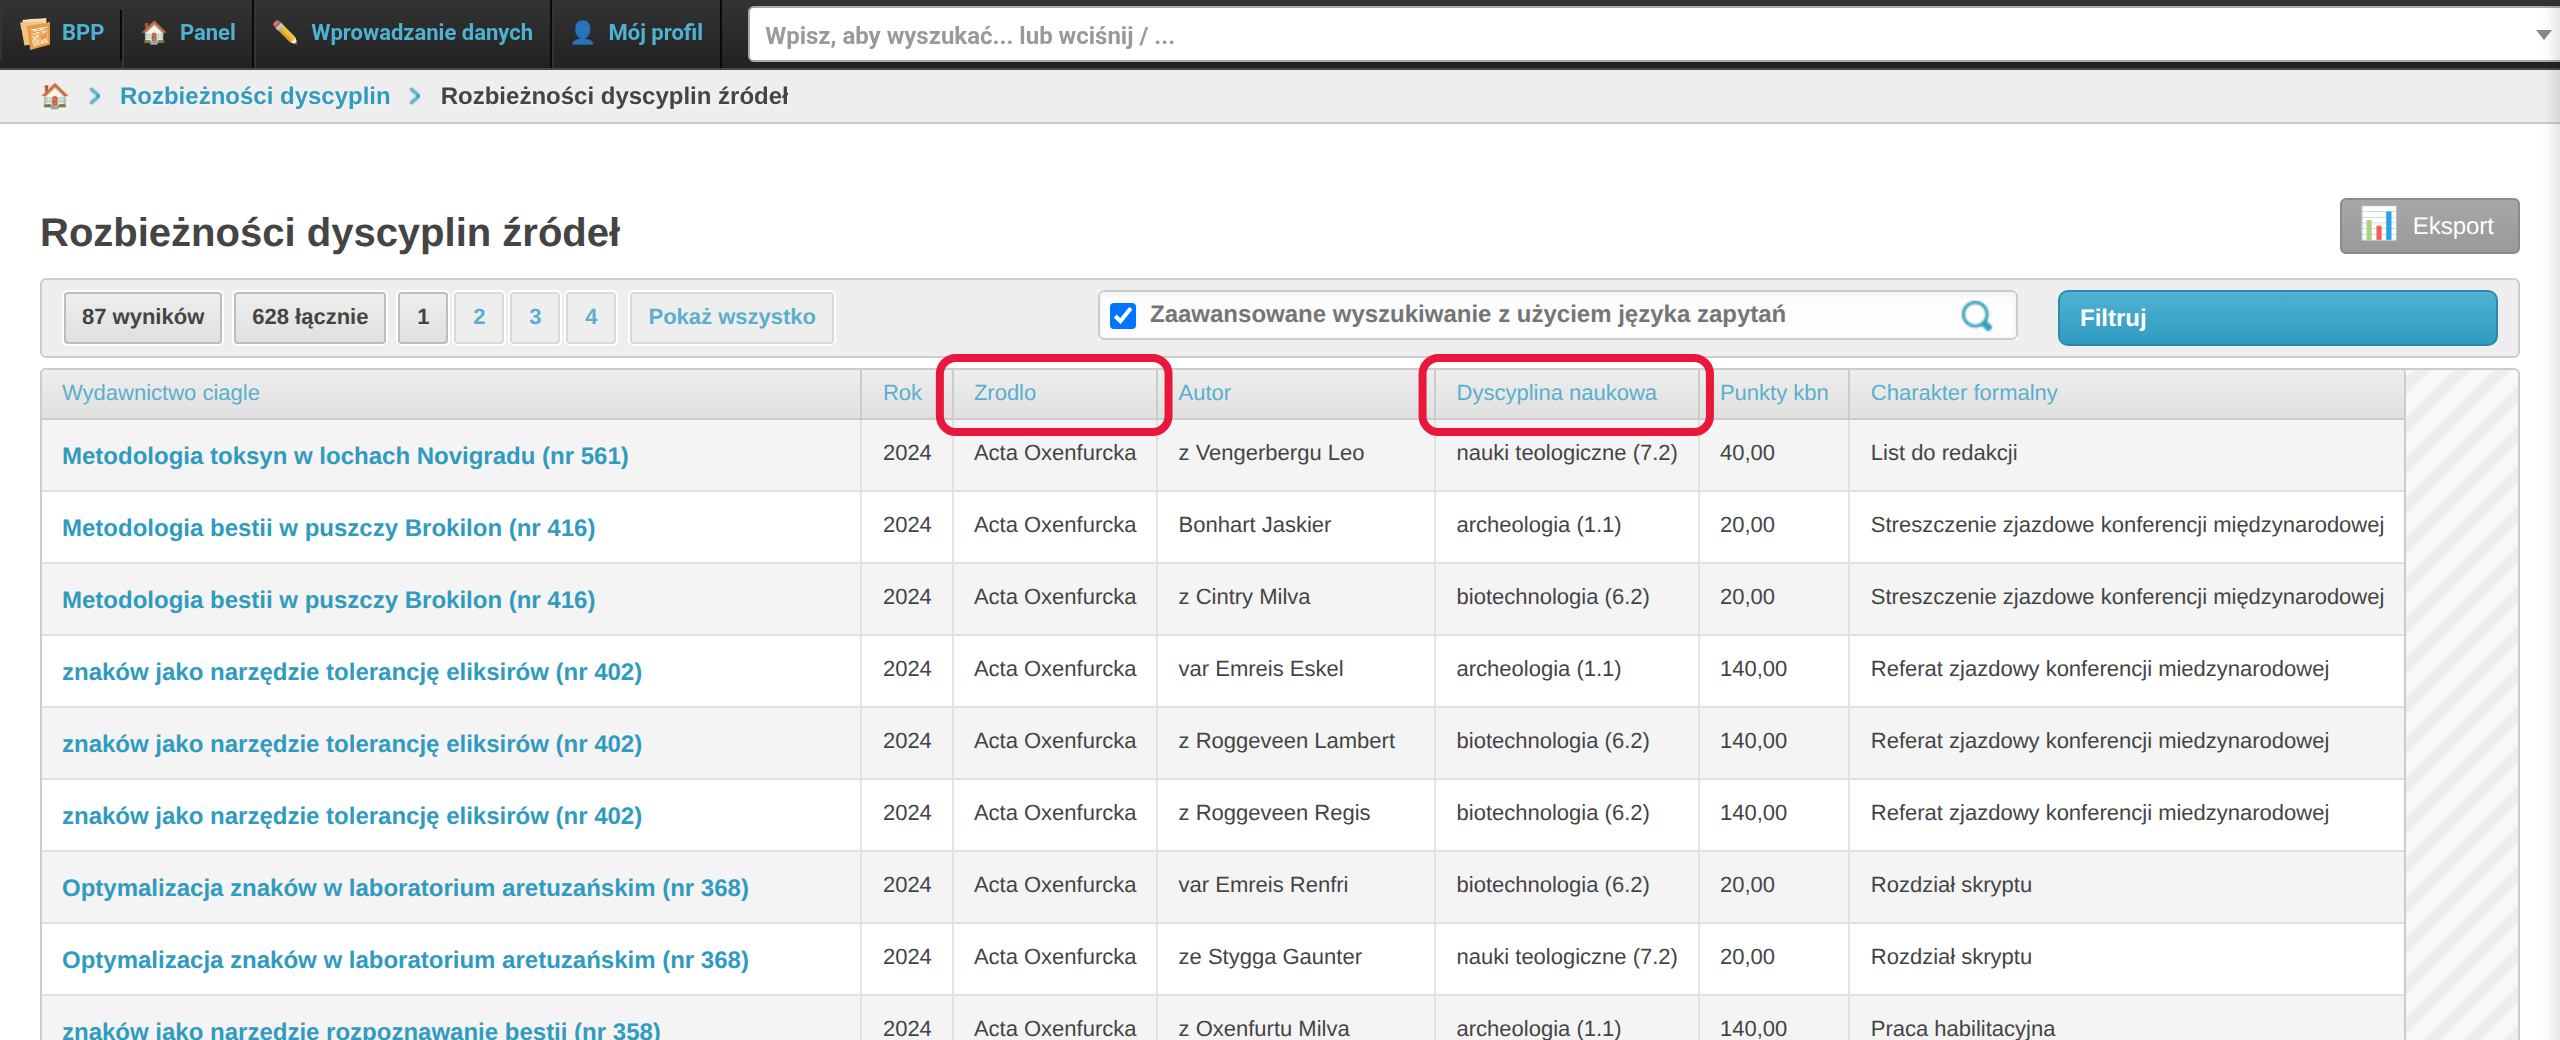
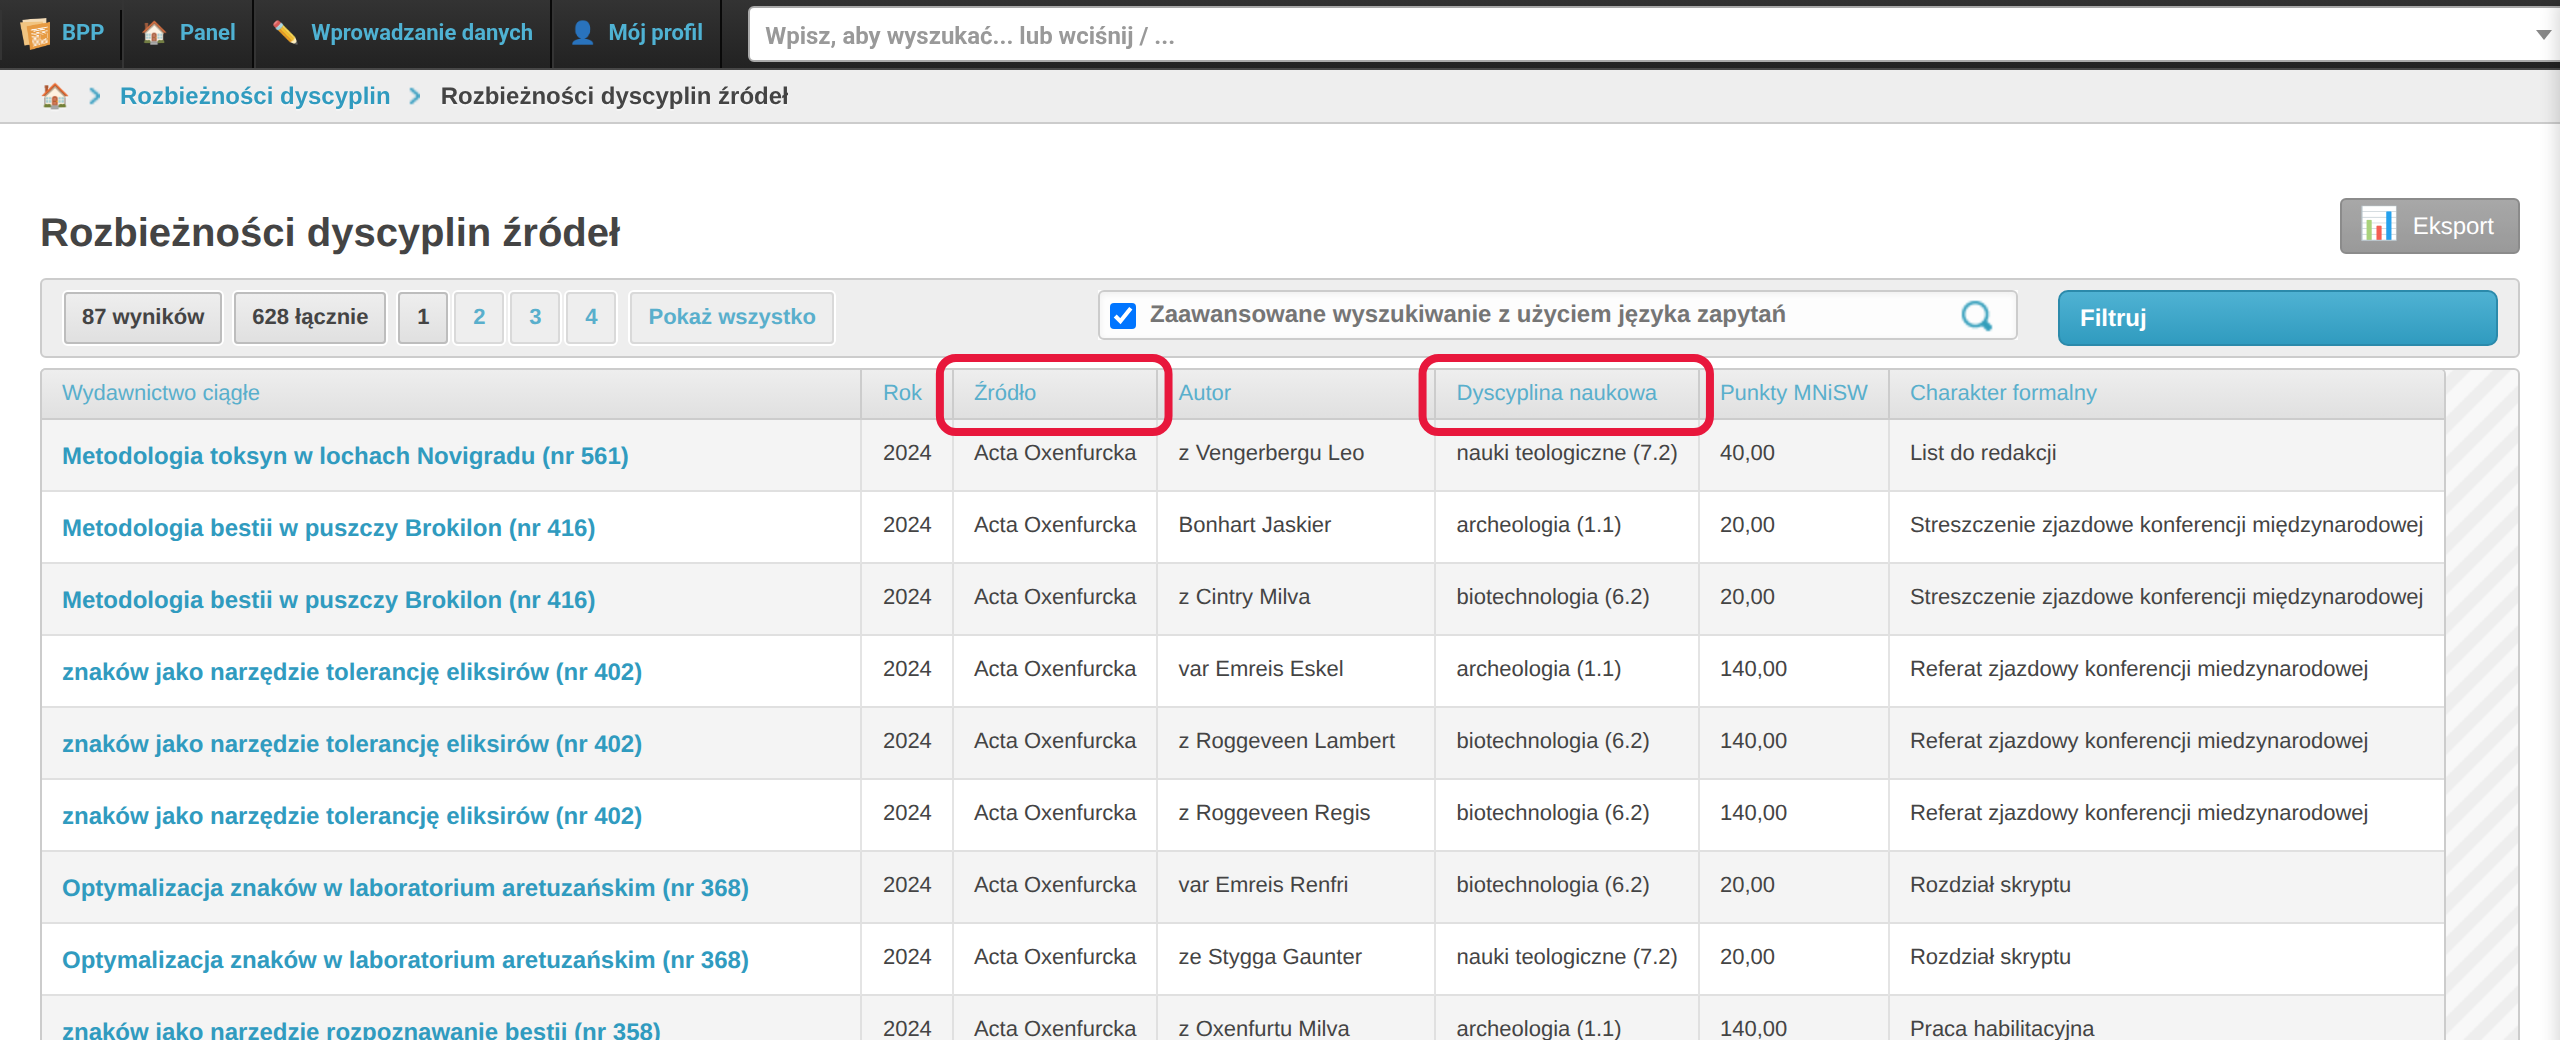
docs(redaktor): refresh rozbieznosci-dyscyplin screenshots after #1030
- 07: the warning now reads "... autor ... nie ma drugiej dyscypliny za rok ..."
- 06: after an action the list keeps the editor's filters
- 09: sources view columns have Polish names (Źródło, Punkty MNiSW,
  Wydawnictwo ciągłe); page text and alt text updated to match

diff --git a/docs/redaktor/rozbieznosci-dyscyplin.md b/docs/redaktor/rozbieznosci-dyscyplin.md
@@ -197,11 +197,11 @@ dyscyplina autora **nie należy** do dyscyplin czasopisma przypisanych na
 rok artykułu. Tak jak lista autorów, z menu **operacje** otwiera się
 zawężona do lat od 2022 i autorów pracujących na uczelni.
 
-![Rozbieżności dyscyplin źródeł: kolumny „Zrodlo” i „Dyscyplina naukowa”](../images/redaktor/rozbieznosci-dyscyplin/09-zrodla.png)
+![Rozbieżności dyscyplin źródeł: kolumny „Źródło” i „Dyscyplina naukowa”](../images/redaktor/rozbieznosci-dyscyplin/09-zrodla.png)
 
-Kolumny: tytuł artykułu, **Rok**, **Zrodlo** (czasopismo), **Autor**,
-**Dyscyplina naukowa** (dyscyplina autora w tym artykule), **Punkty kbn**
-(punkty MNiSW artykułu) i **Charakter formalny**. W panelu **Filtruj**
+Kolumny: **Wydawnictwo ciągłe** (tytuł artykułu), **Rok**, **Źródło**
+(czasopismo), **Autor**, **Dyscyplina naukowa** (dyscyplina autora w tym
+artykule), **Punkty MNiSW** (punkty artykułu) i **Charakter formalny**. W panelu **Filtruj**
 są m.in. filtry **rok**, **dyscyplina naukowa**, **Autor pracuje na
 uczelni?**, **punkty MNISW/MEIN** (np. „większe niż 20”) i **charakter
 formalny**.
